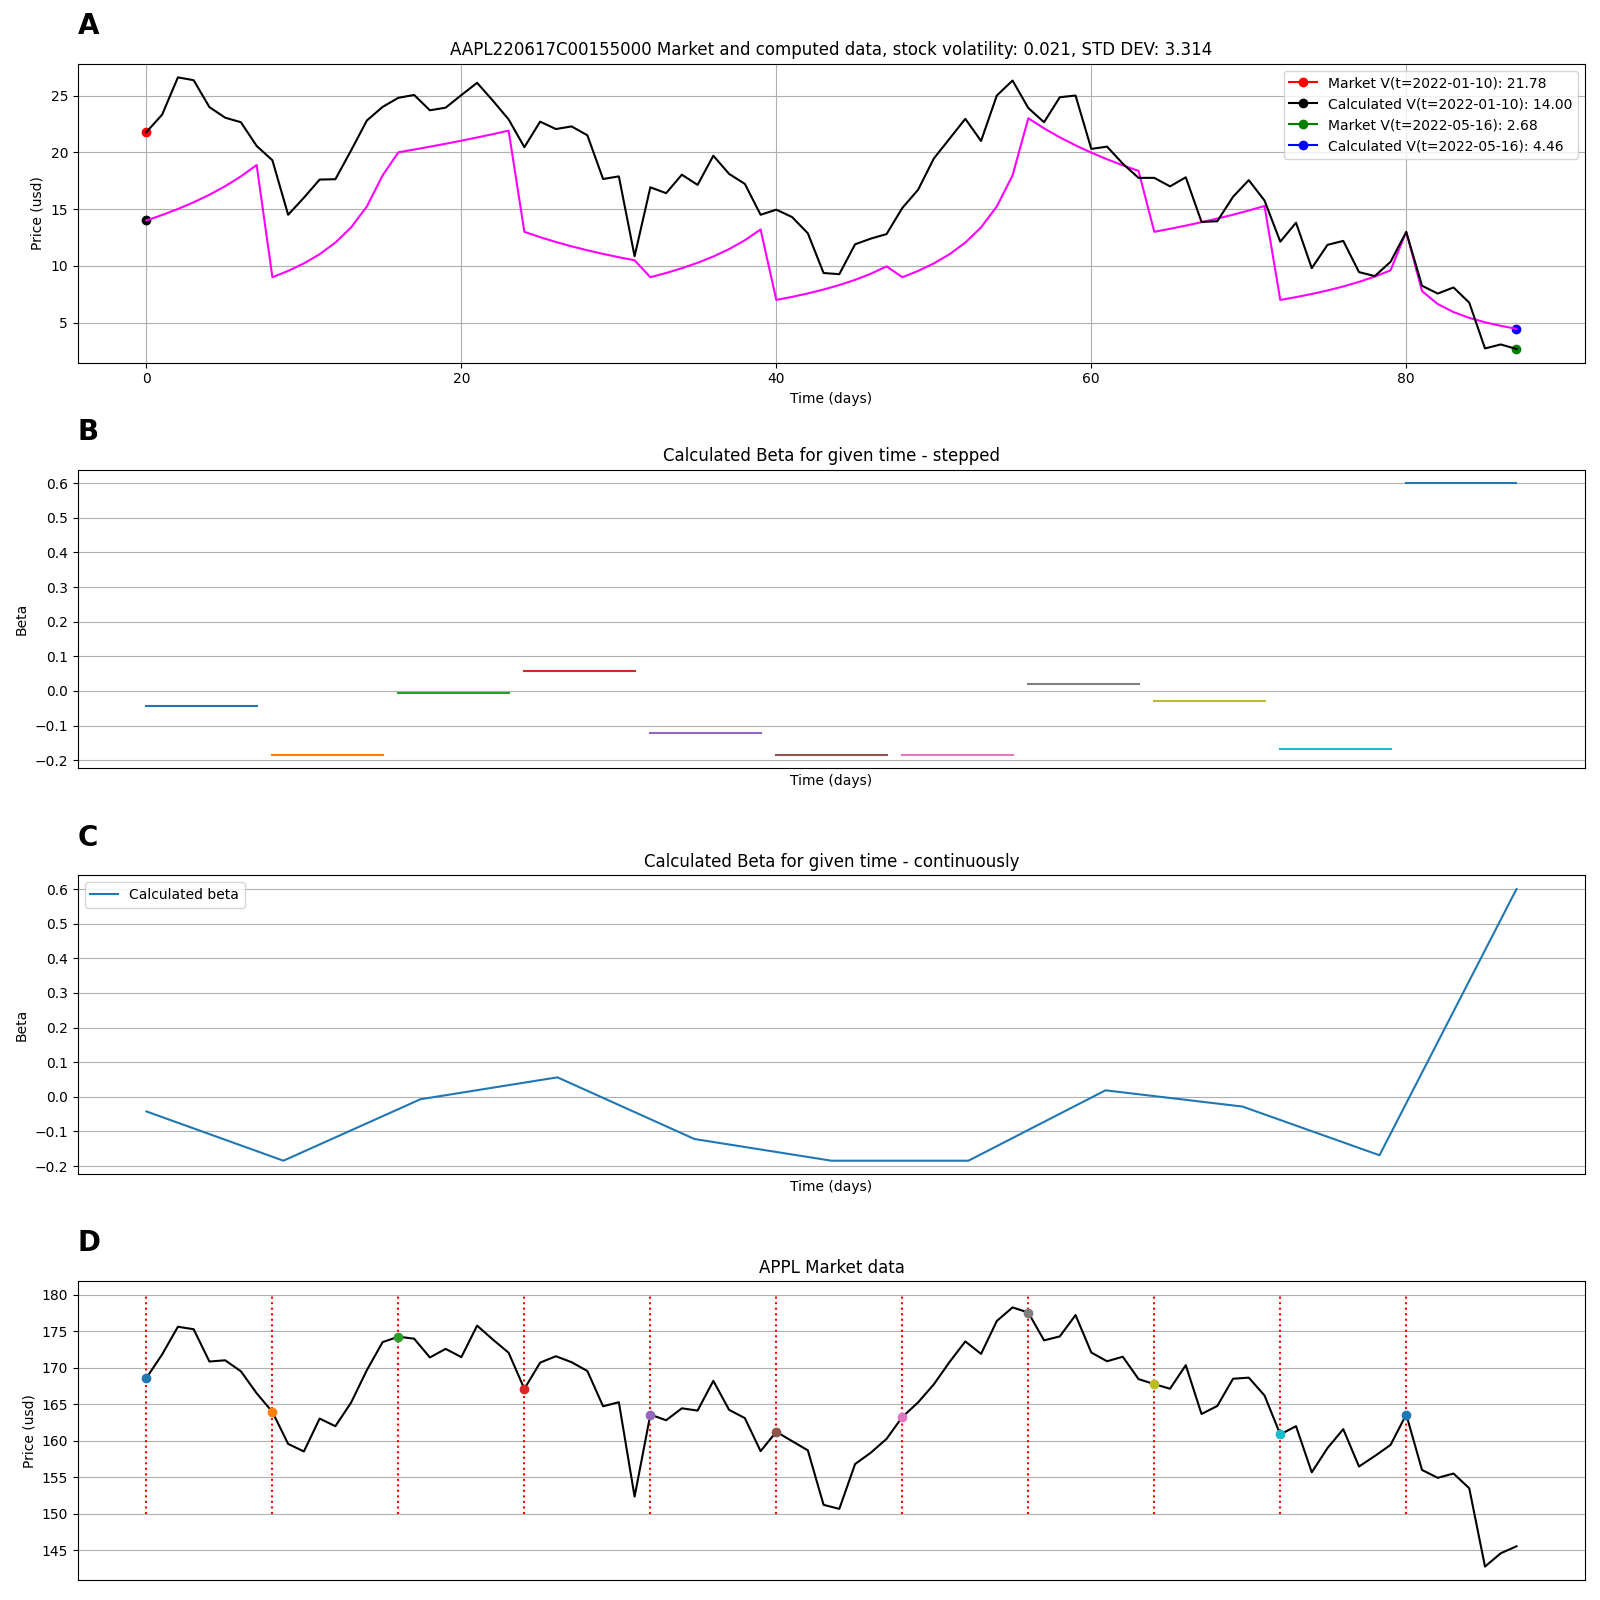
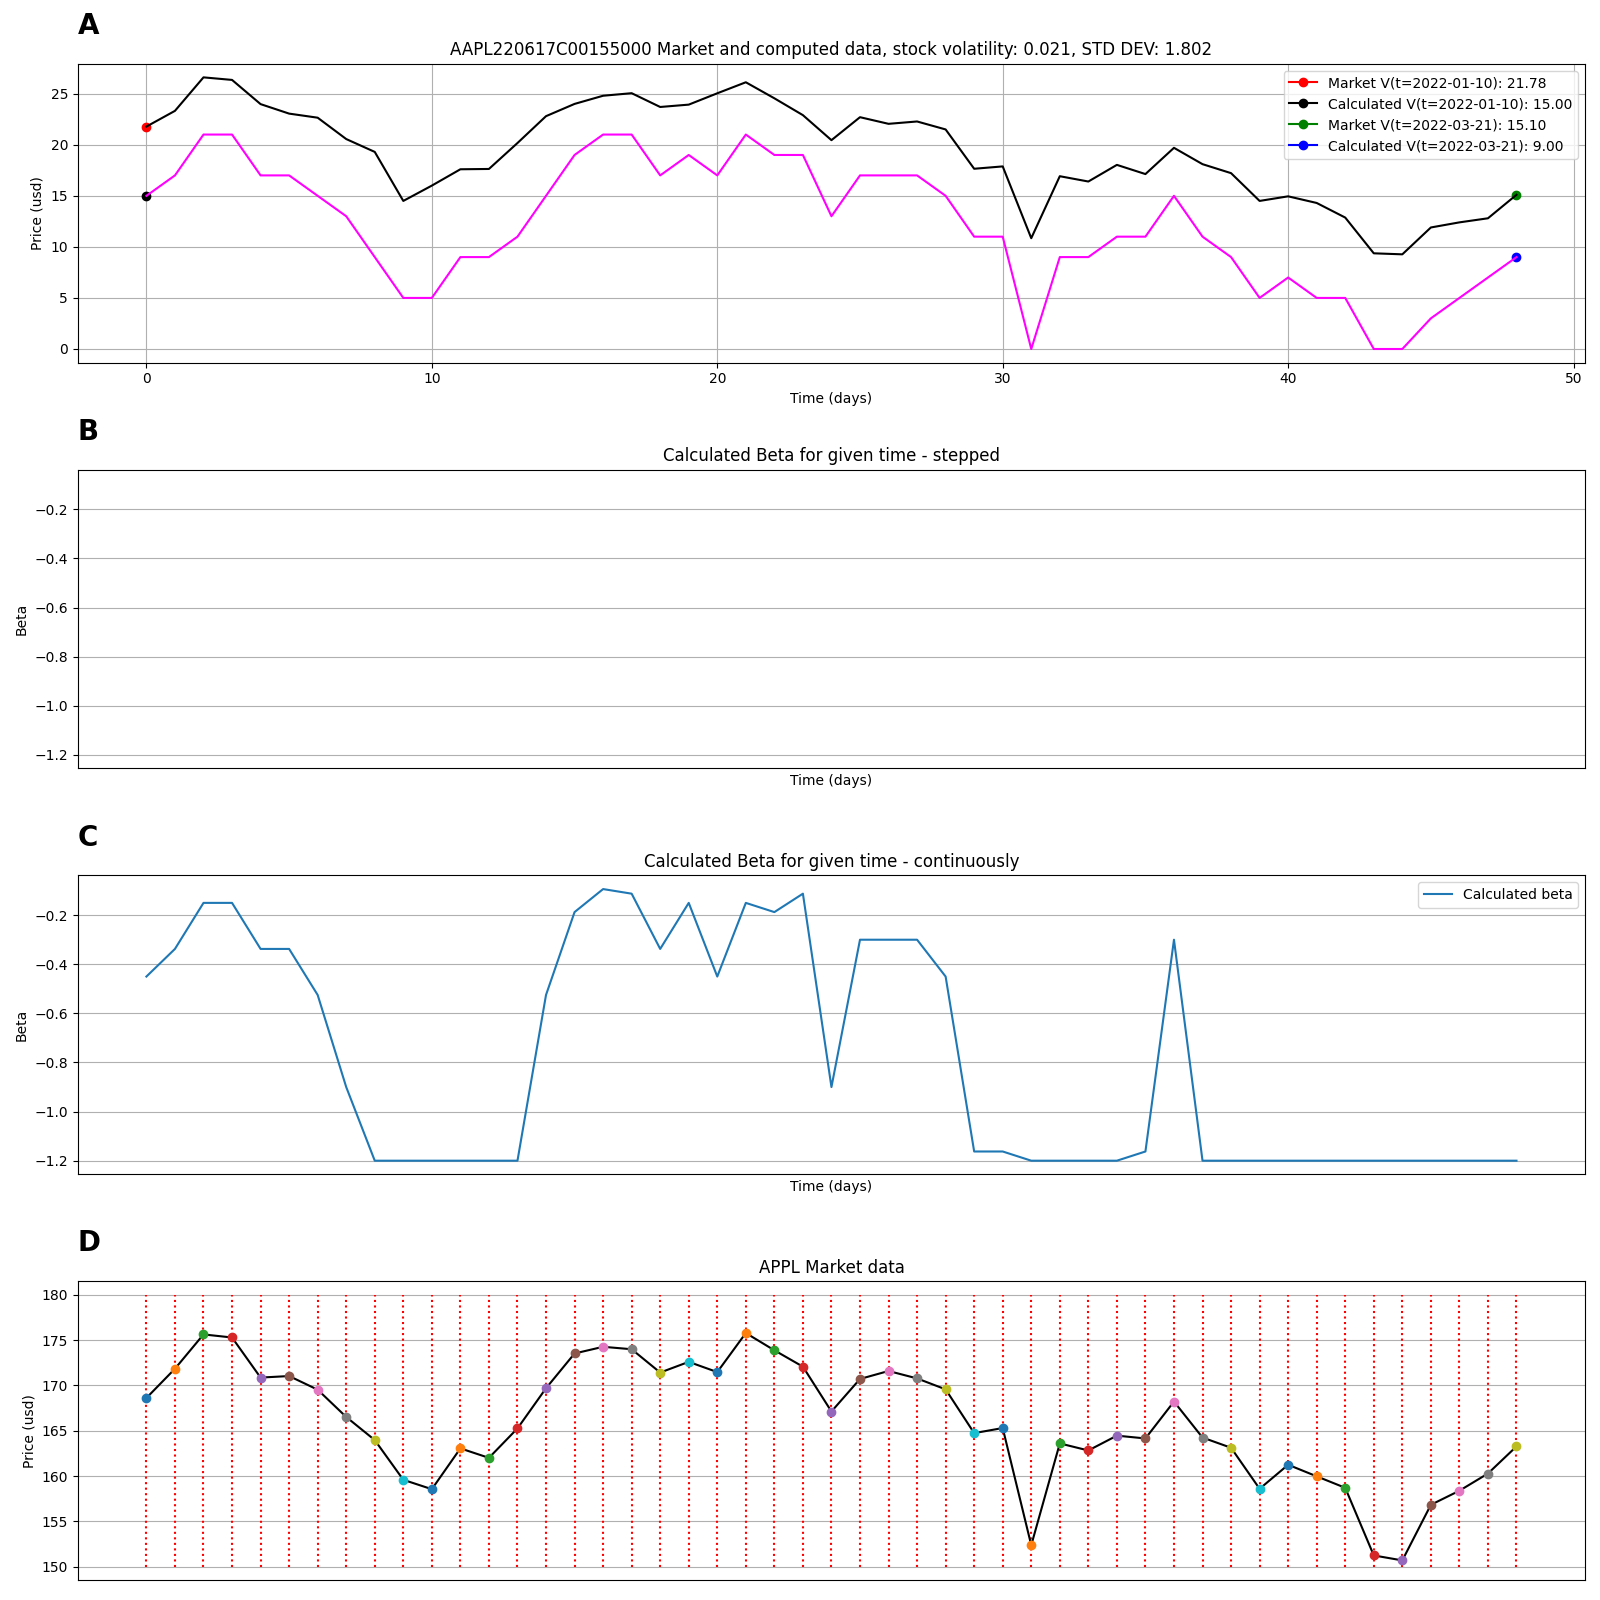
Added fixes

diff --git a/compute/computation.go b/compute/computation.go
@@ -8,7 +8,7 @@ import (
 )
 
 const daysInYear = 252.0
-const numberOfSteps = 5000
+const numberOfSteps = 15000
 
 var errIsNan = errors.New("price is NAN")
 var errInInf = errors.New("price is INF")
@@ -121,9 +121,12 @@ func computeNonLinearBlackScholes(ds, maxPrice, volatility, r, tMax, strikePrice
 	ds2 := math.Pow(ds, 2)
 	volatility2 := math.Pow(volatility, 2)
 
-	// Time differential
+	// Time differential -> Assuming 252 days = year
 	dt := 1.0 / 252.0
 	spatialSize := int(maxPrice / ds)
+	for float64(spatialSize)*ds < s0 {
+		spatialSize++
+	}
 	timeSize := int(tMax / dt)
 
 	if spatialSize <= 2 {

diff --git a/option_pricing/optionlib/american_options_trader.py b/option_pricing/optionlib/american_options_trader.py
@@ -393,5 +393,5 @@ if __name__ == '__main__':
     # a = AmericanOptions("APPL", "AAPL220617C00143000", 0.03, "/Users/marcinwroblewski/GolandProjects/optionpricing/american.db")
     a = AmericanOptions("APPL", "AAPL220617C00155000", 0.03,
                         "/Users/marcinwroblewski/GolandProjects/optionpricing/american.db")
-    a.calculate_option_data_divided(12)
+    a.calculate_option_data_divided(50)
     # a.calculate_option_data()

diff --git a/compute/utils.go b/compute/utils.go
@@ -7,8 +7,8 @@ const (
 	Nonlinear    = "NonLinear"
 	European     = "European"
 	American     = "American"
-	spatialSteps = 200
-	rightBeta    = 15.5
+	spatialSteps = 100
+	rightBeta    = 1.2
 	leftBeta     = -rightBeta
 )
 
